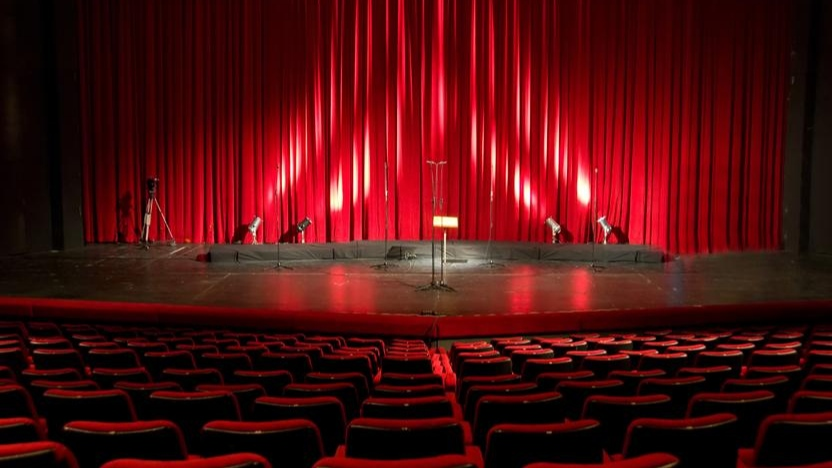
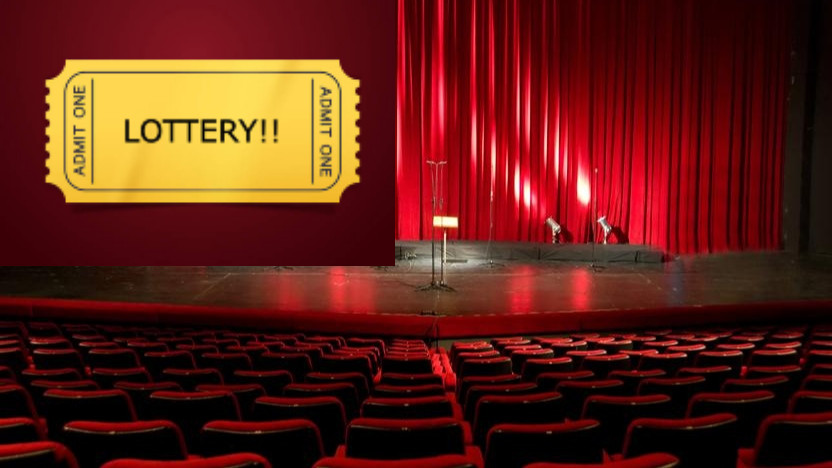
Changed Mad Mix Picture and information

Changed region(s): [[0.0, 0.0, 0.5, 0.5684]]

diff --git a/client/src/components/RegisterEvent/Container/Container.jsx b/client/src/components/RegisterEvent/Container/Container.jsx
@@ -57,7 +57,29 @@ export default function Container(props) {
 
                     <div style={{ "padding": "20px 30px 20px 30px", "marginLeft": "0" }} className="row">
                         <div className='col-11' style={{ "backgroundColor": "#005EB4", "padding": "20px 20px 20px 20px", "color": "white", "fontFamily": "Poppins", "borderRadius": "0px 20px 20px 20px" }}>
-                            <p>{props.about}</p>
+                            <p>{props.about}
+                            {props.id==1 &&
+                                <div style={{"color":"gold"}}>
+                                    <br></br><br></br>
+                                    YOU could be the lucky winner!!
+                                    Every person (not from IIITB) who enters Infin8 on 11th Feb gets added to a lucky draw. The winners get a pass to MAD MIX  on 11th Feb 23 @ 6pm!!
+
+                                    Want to increase your odds?
+
+                                    Winners of the following events gets passes too:
+                                    <ol>
+                                        <li>Sargam</li>
+                                        <li>Chitrakarma</li>
+                                        <li>Nritta</li>
+                                        <li>Ramp it up</li>
+                                        <li>E sports CODM</li>
+                                    </ol>
+                                    Finally, some game stalls are hiding a few passes as well. Win (maybe gamble?) your way to own those tickets.
+
+                                    So, do come hang out with us at Infin8 2023 - Eat, play, compete and enjoy! All with the incentive of possibly experiencing some rib tickling comedy from some of the country;s finest comedians.
+                                </div>
+                            }
+                            </p>
                         </div>
                     </div>
 
